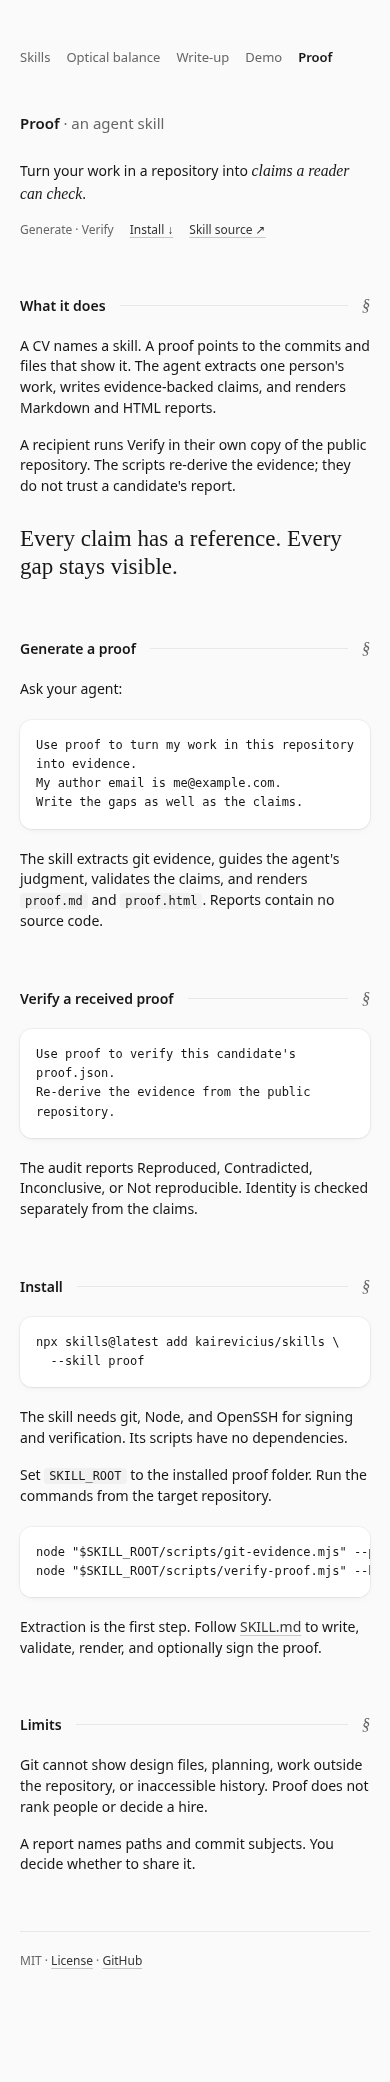
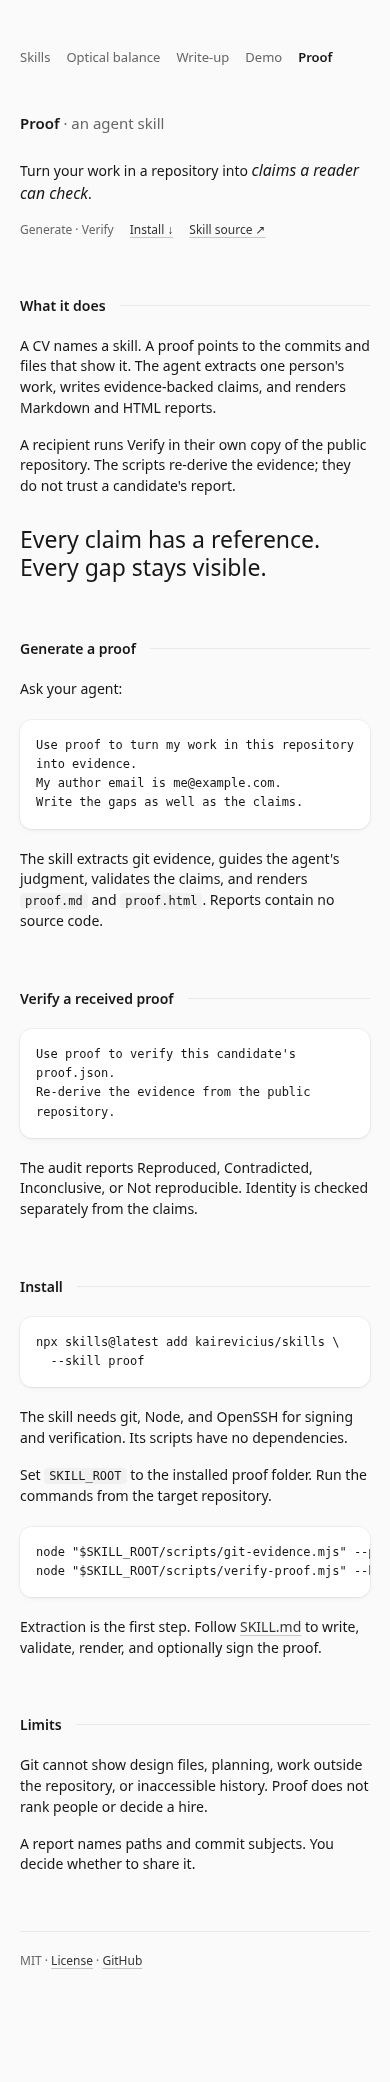
Fix section headings and unify site typography

diff --git a/sites/index.html b/sites/index.html
@@ -16,6 +16,7 @@
     --card-shadow: 0 0 0 1px rgb(0 0 0 / .04), 0 1px 2px rgb(0 0 0 / .04), 0 2px 8px -2px rgb(0 0 0 / .06);
 }
 * { box-sizing: border-box; }
+button, input, select, textarea { font-family: inherit; }
 html { -webkit-text-size-adjust: 100%; scroll-behavior: smooth; }
 body { margin: 0; background: var(--paper); color: var(--ink); font: 14px/1.48 system-ui, -apple-system, "Segoe UI", sans-serif; -webkit-font-smoothing: antialiased; }
 ::selection { background: #e3e8ef; }
@@ -36,11 +37,10 @@ h1 { font-size: 15px; line-height: 1.5; font-weight: 600; letter-spacing: 0; mar
 h1 .subtitle { font-weight: 400; color: var(--muted); }
 h2 { display: flex; align-items: baseline; gap: 14px; margin: 56px 0 20px; font-size: 14px; font-weight: 600; line-height: 1.5; letter-spacing: 0; scroll-margin-top: 28px; }
 h2::after { content: ""; height: 1px; flex: 1; background: var(--hair); align-self: center; }
-h2 .section-mark { order: 2; color: var(--muted); font: italic 16px Georgia, serif; }
 h3 { font-size: 14px; font-weight: 600; margin: 28px 0 12px; }
 p { margin: 0 0 16px; max-width: none; }
 .lede { font-size: 14px; color: var(--ink); line-height: 1.48; max-width: none; margin: 0 0 24px; }
-em, .editorial { font-family: Georgia, serif; font-weight: 400; }
+em, .editorial { font-weight: 400; }
 em { font-size: 1.12em; }
 .editorial { font-size: 23px; line-height: 1.25; margin: 28px 0; }
 .small, .fact { color: var(--muted); font-size: 12px; line-height: 1.5; }
@@ -74,7 +74,7 @@ footer p { font-size: 12px; color: var(--muted); }
 .preview-strip a:hover img { transform: translateY(-3px); }
 .meta { display: flex; flex-wrap: wrap; gap: 8px 16px; font-size: 12px; color: var(--muted); }
 .steps { gap: 16px; }
-ol.steps li::before { color: var(--muted); font-family: Georgia, serif; font-style: italic; }
+ol.steps li::before { color: var(--muted); font-style: italic; }
 .site-column table { font-size: 12px; }
 .site-column .scroll { max-width: 100%; overflow-x: auto; }
 .site-column .scroll table { min-width: 540px; }
@@ -88,7 +88,7 @@ ol.steps li::before { color: var(--muted); font-family: Georgia, serif; font-sty
     .site-toc { display: grid; gap: 8px; }
     .site-toc a { color: var(--muted); text-decoration: none; line-height: 1.4; }
     .site-toc a:hover { color: var(--ink); }
-    .site-rail .rail-label { color: var(--muted); font: italic 20px Georgia, serif; margin: 0; }
+    .site-rail .rail-label { color: var(--muted); font-size: 20px; font-style: italic; margin: 0; }
 }
 @media (prefers-reduced-motion: reduce) {
     html { scroll-behavior: auto; }
@@ -103,22 +103,22 @@ ol.steps li::before { color: var(--muted); font-family: Georgia, serif; font-sty
 <a href="optical-balance/demo.html" aria-label="Try the optical alignment demo"><img src="optical-balance/assets/vercel-visual.webp" alt="Triangle centered optically in a disc"></a>
 </div>
 <p class="meta"><span>Any agent that reads skills</span><a href="#install">Install ↓</a><a href="https://github.com/kairevicius/skills">Source ↗</a></p>
-<h2 id="choose-a-skill">Choose a skill<span class="section-mark" aria-hidden="true">§</span></h2>
+<h2 id="choose-a-skill">Choose a skill</h2>
 <p>Each skill has one job, a repeatable workflow, and scripts that check its output.</p>
 <ul class="skill-list">
 <li><a href="optical-balance/"><strong>Optical balance <span aria-hidden="true">↗</span></strong><span>Center and size logos and icons by what the eye sees. Get the CSS offset and check the rendered result.</span></a></li>
 <li><a href="proof/"><strong>Proof <span aria-hidden="true">↗</span></strong><span>Turn one person's git history into claims backed by commits and files. Re-derive a received proof before trusting it.</span></a></li>
 </ul>
-<h2 id="install">Install<span class="section-mark" aria-hidden="true">§</span></h2>
+<h2 id="install">Install</h2>
 <p>Use the skills CLI. It asks which skills and agents to install for.</p>
 <pre tabindex="0"><code>npx skills@latest add kairevicius/skills</code></pre>
 <p>Add <code>-a &lt;agent&gt;</code> to choose agents, such as <code>-a codex -a cursor</code>. Add <code>-g</code> for a user install.</p>
 <p>Without the CLI, copy a folder from <code>skills/</code> into your agent's skills folder. Follow its <code>SKILL.md</code> for setup.</p>
-<h2 id="use-it">Use it<span class="section-mark" aria-hidden="true">§</span></h2>
+<h2 id="use-it">Use it</h2>
 <p>Ask your agent to run a skill against your actual asset or repository.</p>
 <pre class="prompt" tabindex="0"><code>Use optical-balance to center this logo in its tile.
 Use proof to turn my work in this repository into evidence.</code></pre>
-<h2 id="read-the-method">Read the method<span class="section-mark" aria-hidden="true">§</span></h2>
+<h2 id="read-the-method">Read the method</h2>
 <p><a href="optical-balance/write-up.html">The box is not the ink</a> walks through the optical measurements. The <a href="optical-balance/demo.html">live demo</a> lets you compare the alignment rules.</p>
 <footer><p>MIT · <a href="https://github.com/kairevicius/skills/blob/main/LICENSE">License</a> · <a href="https://github.com/kairevicius/skills">GitHub</a></p></footer>
 </main></div></div></body></html>

diff --git a/sites/style.css b/sites/style.css
@@ -15,6 +15,7 @@
     --card-shadow: 0 0 0 1px rgb(0 0 0 / .04), 0 1px 2px rgb(0 0 0 / .04), 0 2px 8px -2px rgb(0 0 0 / .06);
 }
 * { box-sizing: border-box; }
+button, input, select, textarea { font-family: inherit; }
 html { -webkit-text-size-adjust: 100%; scroll-behavior: smooth; }
 body { margin: 0; background: var(--paper); color: var(--ink); font: 14px/1.48 system-ui, -apple-system, "Segoe UI", sans-serif; -webkit-font-smoothing: antialiased; }
 ::selection { background: #e3e8ef; }
@@ -35,11 +36,10 @@ h1 { font-size: 15px; line-height: 1.5; font-weight: 600; letter-spacing: 0; mar
 h1 .subtitle { font-weight: 400; color: var(--muted); }
 h2 { display: flex; align-items: baseline; gap: 14px; margin: 56px 0 20px; font-size: 14px; font-weight: 600; line-height: 1.5; letter-spacing: 0; scroll-margin-top: 28px; }
 h2::after { content: ""; height: 1px; flex: 1; background: var(--hair); align-self: center; }
-h2 .section-mark { order: 2; color: var(--muted); font: italic 16px Georgia, serif; }
 h3 { font-size: 14px; font-weight: 600; margin: 28px 0 12px; }
 p { margin: 0 0 16px; max-width: none; }
 .lede { font-size: 14px; color: var(--ink); line-height: 1.48; max-width: none; margin: 0 0 24px; }
-em, .editorial { font-family: Georgia, serif; font-weight: 400; }
+em, .editorial { font-weight: 400; }
 em { font-size: 1.12em; }
 .editorial { font-size: 23px; line-height: 1.25; margin: 28px 0; }
 .small, .fact { color: var(--muted); font-size: 12px; line-height: 1.5; }
@@ -73,7 +73,7 @@ footer p { font-size: 12px; color: var(--muted); }
 .preview-strip a:hover img { transform: translateY(-3px); }
 .meta { display: flex; flex-wrap: wrap; gap: 8px 16px; font-size: 12px; color: var(--muted); }
 .steps { gap: 16px; }
-ol.steps li::before { color: var(--muted); font-family: Georgia, serif; font-style: italic; }
+ol.steps li::before { color: var(--muted); font-style: italic; }
 .site-column table { font-size: 12px; }
 .site-column .scroll { max-width: 100%; overflow-x: auto; }
 .site-column .scroll table { min-width: 540px; }
@@ -87,7 +87,7 @@ ol.steps li::before { color: var(--muted); font-family: Georgia, serif; font-sty
     .site-toc { display: grid; gap: 8px; }
     .site-toc a { color: var(--muted); text-decoration: none; line-height: 1.4; }
     .site-toc a:hover { color: var(--ink); }
-    .site-rail .rail-label { color: var(--muted); font: italic 20px Georgia, serif; margin: 0; }
+    .site-rail .rail-label { color: var(--muted); font-size: 20px; font-style: italic; margin: 0; }
 }
 @media (prefers-reduced-motion: reduce) {
     html { scroll-behavior: auto; }

diff --git a/docs/evidence/site-redesign/README.md b/docs/evidence/site-redesign/README.md
@@ -13,7 +13,8 @@ curl -L --fail https://skills.wheresryan.sh/anatomy/_next/static/css/3e834ea9191
 
 The stylesheet defines a narrow reading column, a sticky desktop rail, a pale light background, compact sans-serif text,
 serif details, horizontal section rules, and white rounded code cards with soft shadows.
-The redesign uses those patterns with our existing figures, copy, and system fonts. No reference text, brand, or assets were copied.
+The redesign uses those patterns with our existing figures and copy. Review fixes use the body sans throughout,
+with monospace for code and measurements, and remove trailing section glyphs. No reference text, brand, or assets were copied.
 Reduced motion stops decorative animation. Cards and current navigation items have no left accent bars.
 
 ## Screenshots
@@ -56,7 +57,7 @@ SITE_AXE_PATH=/tmp/site-redesign-a11y/node_modules/axe-core/axe.min.js \
 
 Automated WCAG A/AA checks supplement screenshot inspection and keyboard checks; they do not prove every accessibility requirement.
 The smoke script checks titles, image decoding, internal links and anchors, overflow, light mode under a dark preference,
-skip-link focus, and actual geometric/optical alignment in both the standalone and embedded demos.
+skip-link focus, heading glyph removal, computed font families, and actual geometric/optical alignment in both the standalone and embedded demos.
 
 ## Blast radius
 
